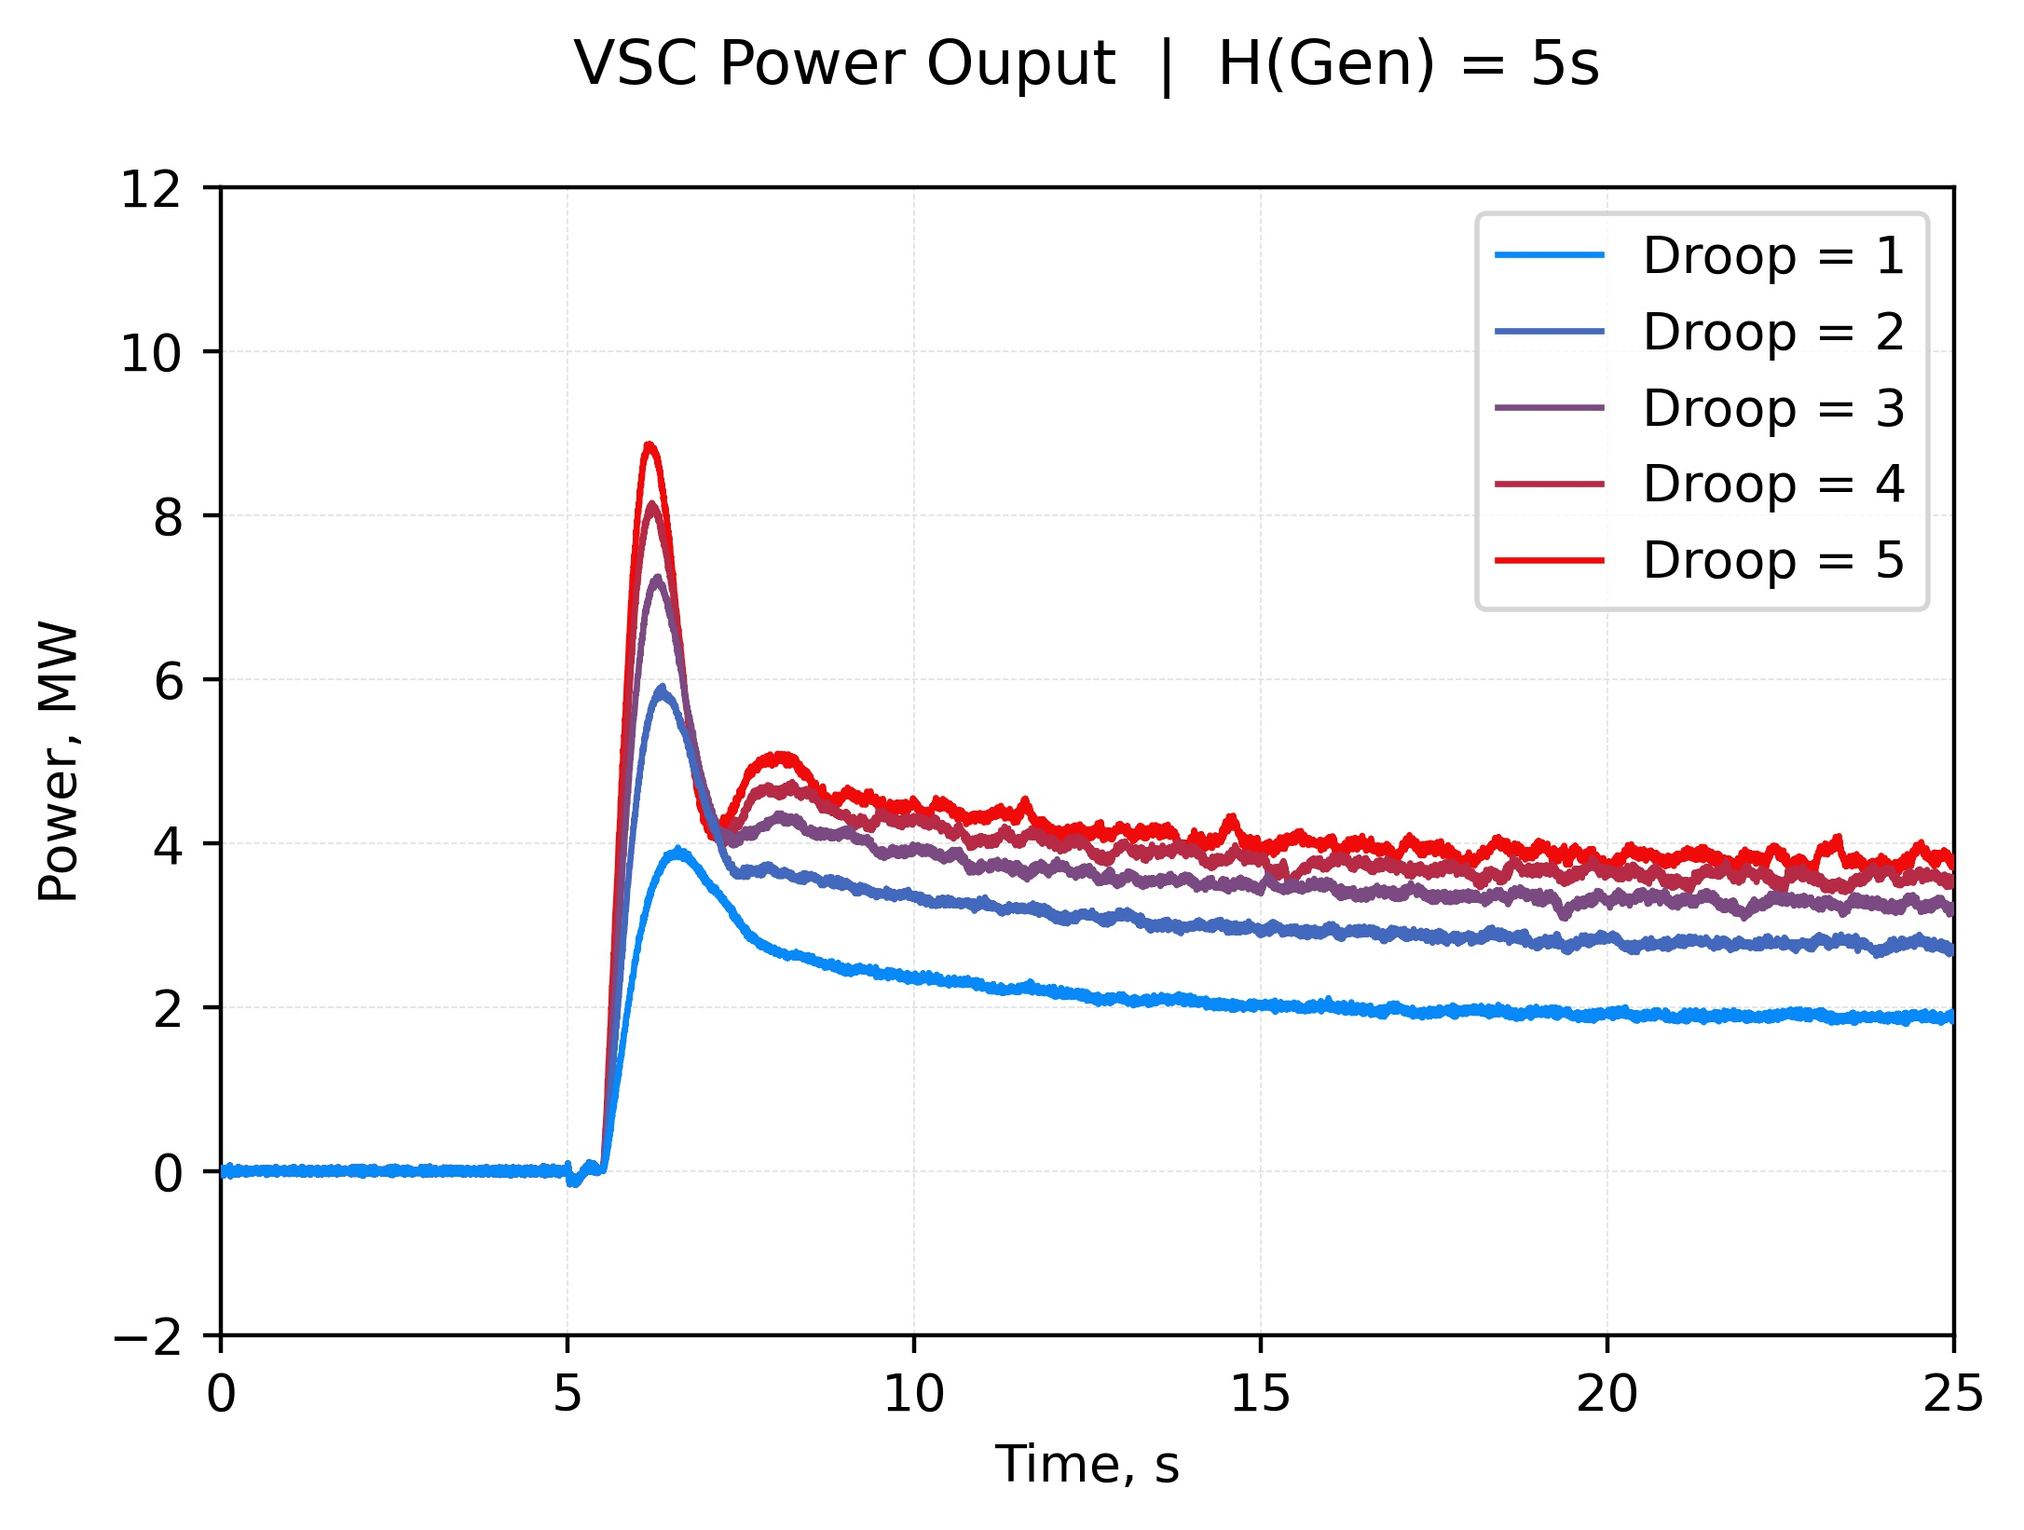
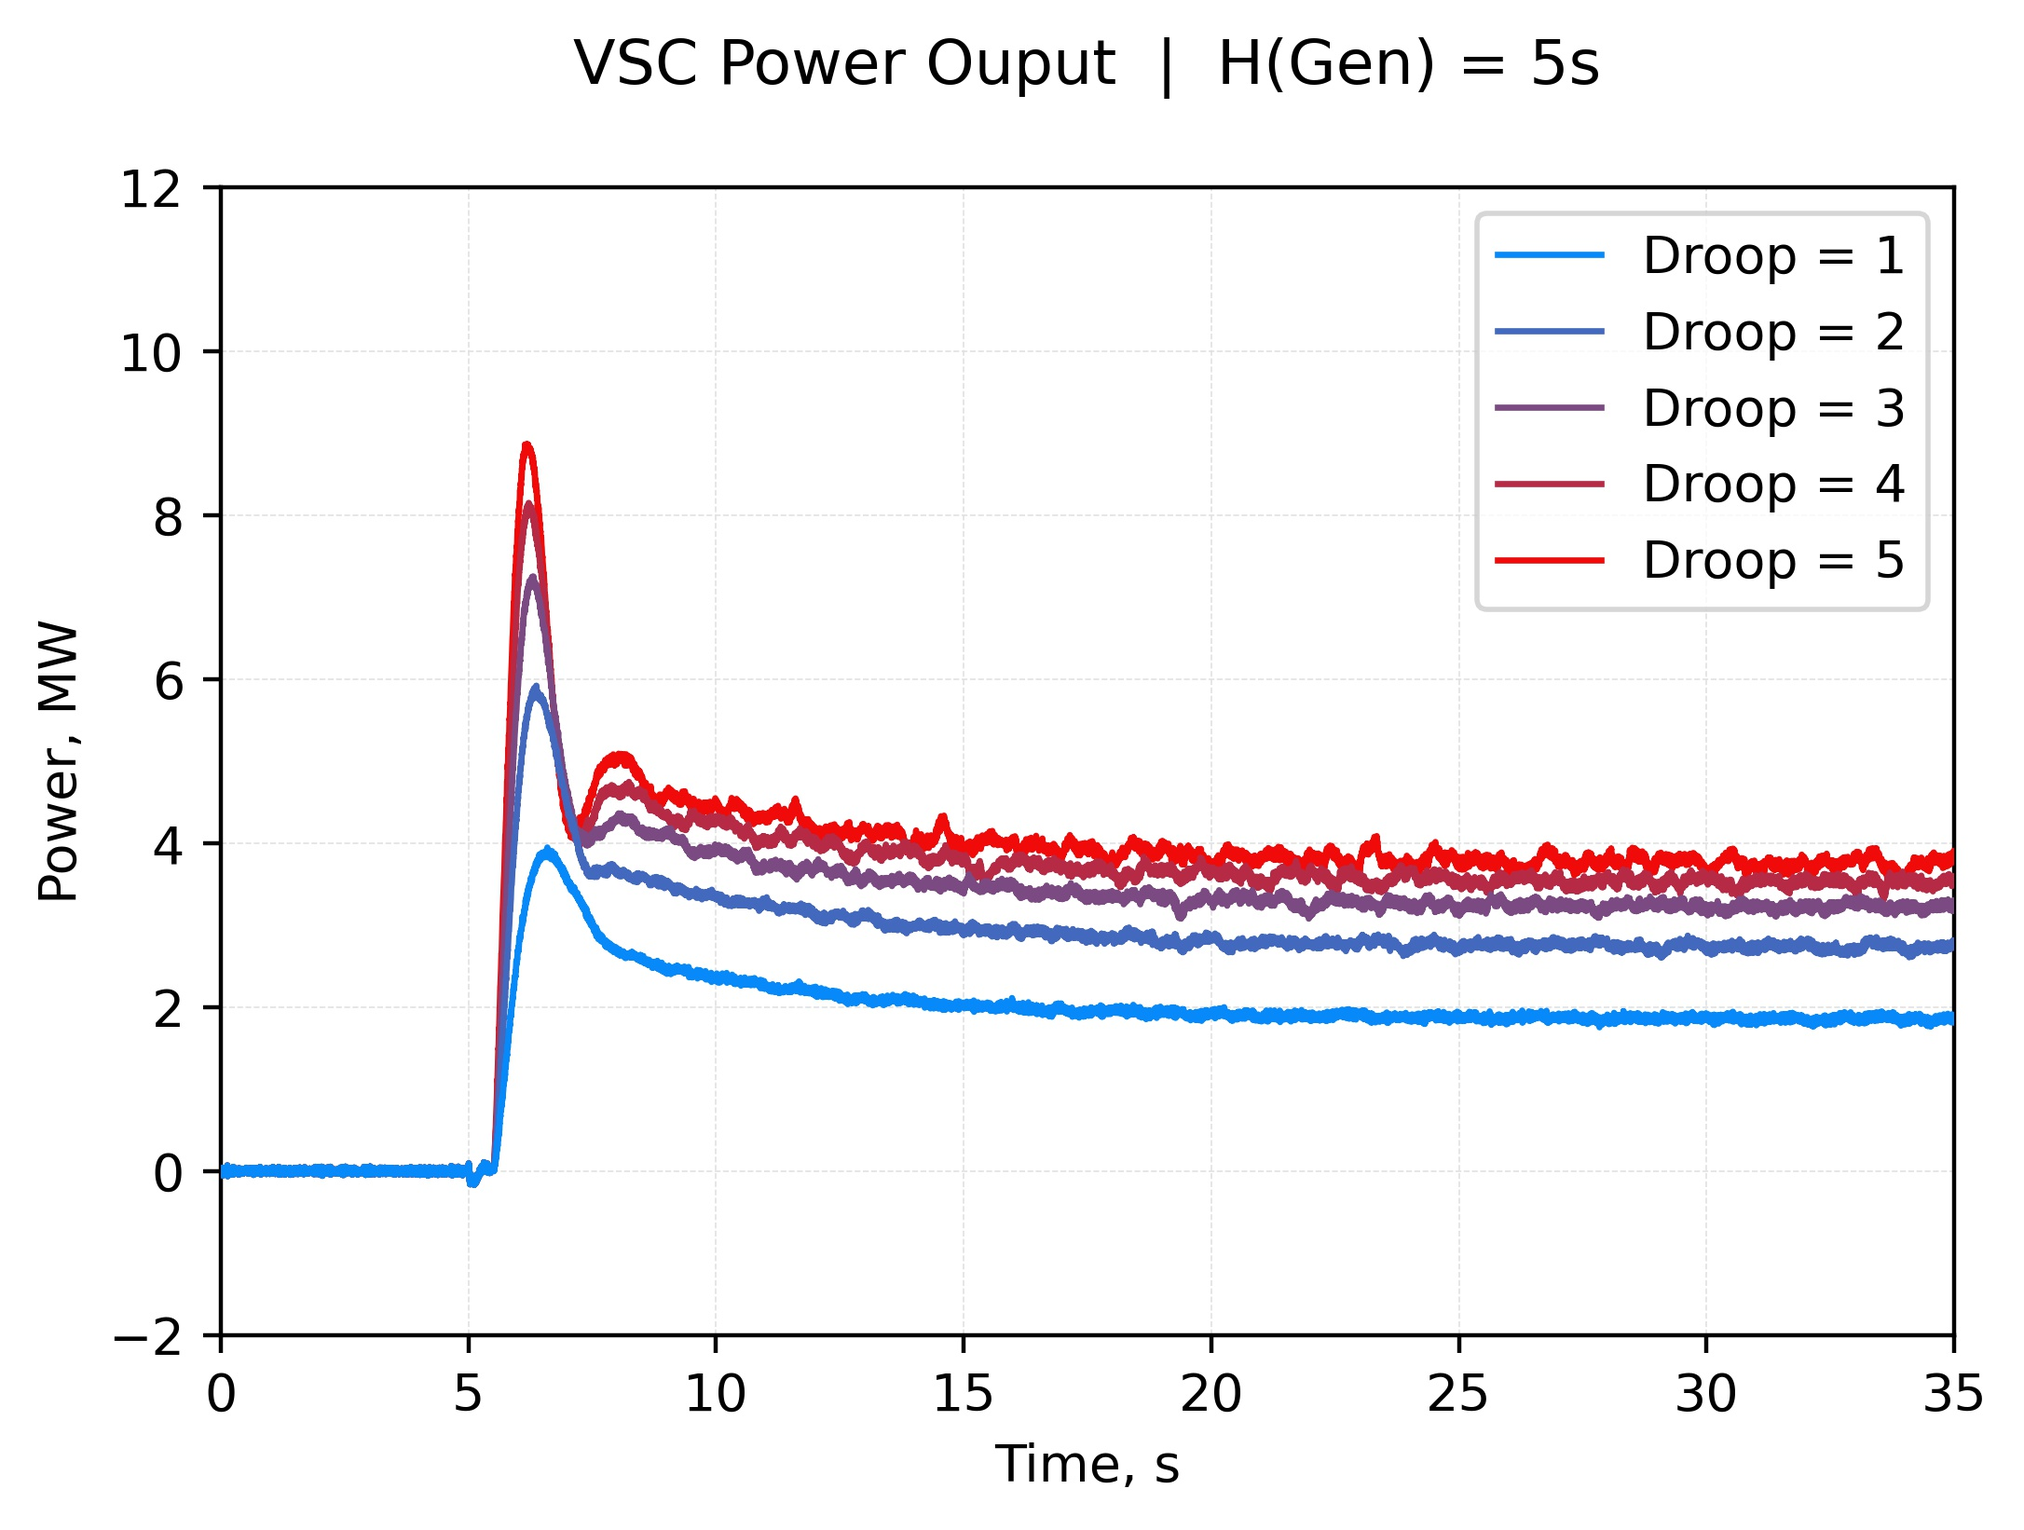
study 5 & 6 analysis done

diff --git a/6-droop-analysis.py b/6-droop-analysis.py
@@ -2,9 +2,9 @@ import functions as f
 import matplotlib.pyplot as plt
 import numpy as np
 
-# Program used to carry out the baseline study analysis
+# Program used to carry out the droop study analysis
 
-scenarios = ['1', '2', '3', '4', '5']
+scenarios = ['5MW', '10MW', '15MW']
 inertia = ['5s', '2.5s']
 
 for h in inertia:
@@ -13,9 +13,11 @@ for h in inertia:
     filesR = [f'rocof {scenario} {h}.mat' for scenario in scenarios]
     filesV = [f'power-vsc {scenario} {h}.mat' for scenario in scenarios]
 
-    dsF = f.importData(filesF, 'data/v2-data/4-droop-sensitivity-study')
-    dsR = f.importData(filesR, 'data/v2-data/4-droop-sensitivity-study')
-    dsV = f.importData(filesV, 'data/v2-data/4-droop-sensitivity-study')
+    dsF = f.importData(filesF, 'data/v2-data/6-droop-study')
+    dsF_base = f.importData(filesF, 'data/v2-data/2-baseline-study')
+    dsR = f.importData(filesR, 'data/v2-data/6-droop-study')
+    dsR_base = f.importData(filesR, 'data/v2-data/2-baseline-study')
+    dsV = f.importData(filesV, 'data/v2-data/6-droop-study')
 
     print(f'Generator Inertia = {h}')
 
@@ -26,12 +28,18 @@ for h in inertia:
         index = range(t0_index)
 
         ds = np.delete(dsF[key]['Value'], index)
+        ds_base = np.delete(dsF_base[key]['Value'], index)
 
         f_min = round(min(ds), 4)
         f_delta = round(f_min - 50, 4)
+        f_min_base = round(min(ds_base), 4)
+        f_delta_base = round(f_min_base - 50, 4)
         f_ss = round(ds[-1], 4)
-        print(f'Case {scenarios[i]}: Minimum frequency = {f_min}, delta = {f_delta}')
-        print(f'Case {scenarios[i]}: Steady-State frequency = {f_ss}')
+        f_ss_base = round(ds_base[-1], 4)
+        print(f'Case {scenarios[i]}: Max delta frequency = {f_delta}')
+        print(f'Case {scenarios[i]}: Baseline Max delta frequency = {f_delta_base}')
+        print(f'Case {scenarios[i]}: Steady state frequency = {f_ss}')
+        print(f'Case {scenarios[i]}: Baseline Steady state frequency = {f_ss_base}')
         i += 1
 
     i = 0
@@ -41,9 +49,12 @@ for h in inertia:
         index = range(t0_index)
 
         ds = np.delete(dsR[key]['Value'], index)
+        ds_base = np.delete(dsR_base[key]['Value'], index)
 
         r_max = round(max(abs(ds)), 4)
+        r_max_base = round(max(abs(ds_base)), 4)
         print(f'Case {scenarios[i]}: Maximum RoCoF = {r_max}')
+        print(f'Case {scenarios[i]}: Baseline Max RoCoF = {r_max_base}')
         i += 1
 
     i = 0
@@ -57,5 +68,5 @@ for h in inertia:
         p_max = round(max(abs(ds)), 4)
         p_ss = round(ds[-1], 4)
         print(f'Case {scenarios[i]}: Maximum VSC Power Output = {p_max}')
-        print(f'Case {scenarios[i]}: Steady-State VSC Power Ouput = {p_ss}')
+        print(f'Case {scenarios[i]}: Steady State VSC Power Output = {p_ss}')
         i += 1

diff --git a/5-inertial-analysis.py b/5-inertial-analysis.py
@@ -2,9 +2,9 @@ import functions as f
 import matplotlib.pyplot as plt
 import numpy as np
 
-# Program used to carry out the baseline study analysis
+# Program used to carry out the inertial study analysis
 
-scenarios = ['1', '2', '3', '4', '5']
+scenarios = ['5MW', '10MW', '15MW']
 inertia = ['5s', '2.5s']
 
 for h in inertia:
@@ -13,9 +13,11 @@ for h in inertia:
     filesR = [f'rocof {scenario} {h}.mat' for scenario in scenarios]
     filesV = [f'power-vsc {scenario} {h}.mat' for scenario in scenarios]
 
-    dsF = f.importData(filesF, 'data/v2-data/4-droop-sensitivity-study')
-    dsR = f.importData(filesR, 'data/v2-data/4-droop-sensitivity-study')
-    dsV = f.importData(filesV, 'data/v2-data/4-droop-sensitivity-study')
+    dsF = f.importData(filesF, 'data/v2-data/5-inertial-study')
+    dsF_base = f.importData(filesF, 'data/v2-data/2-baseline-study')
+    dsR = f.importData(filesR, 'data/v2-data/5-inertial-study')
+    dsR_base = f.importData(filesR, 'data/v2-data/2-baseline-study')
+    dsV = f.importData(filesV, 'data/v2-data/5-inertial-study')
 
     print(f'Generator Inertia = {h}')
 
@@ -26,12 +28,14 @@ for h in inertia:
         index = range(t0_index)
 
         ds = np.delete(dsF[key]['Value'], index)
+        ds_base = np.delete(dsF_base[key]['Value'], index)
 
         f_min = round(min(ds), 4)
         f_delta = round(f_min - 50, 4)
-        f_ss = round(ds[-1], 4)
-        print(f'Case {scenarios[i]}: Minimum frequency = {f_min}, delta = {f_delta}')
-        print(f'Case {scenarios[i]}: Steady-State frequency = {f_ss}')
+        f_min_base = round(min(ds_base), 4)
+        f_delta_base = round(f_min_base - 50, 4)
+        print(f'Case {scenarios[i]}: Max delta frequency = {f_delta}')
+        print(f'Case {scenarios[i]}: Baseline Max delta frequency = {f_delta_base}')
         i += 1
 
     i = 0
@@ -41,9 +45,12 @@ for h in inertia:
         index = range(t0_index)
 
         ds = np.delete(dsR[key]['Value'], index)
+        ds_base = np.delete(dsR_base[key]['Value'], index)
 
         r_max = round(max(abs(ds)), 4)
+        r_max_base = round(max(abs(ds_base)), 4)
         print(f'Case {scenarios[i]}: Maximum RoCoF = {r_max}')
+        print(f'Case {scenarios[i]}: Baseline Max RoCoF = {r_max_base}')
         i += 1
 
     i = 0
@@ -55,7 +62,5 @@ for h in inertia:
         ds = np.delete(dsV[key]['Value'], index)
 
         p_max = round(max(abs(ds)), 4)
-        p_ss = round(ds[-1], 4)
         print(f'Case {scenarios[i]}: Maximum VSC Power Output = {p_max}')
-        print(f'Case {scenarios[i]}: Steady-State VSC Power Ouput = {p_ss}')
         i += 1

diff --git a/5-inertial-power-gen-report.py b/5-inertial-power-gen-report.py
@@ -1,0 +1,29 @@
+import functions as f
+import matplotlib.pyplot as plt
+
+# Program used to plot the inertial study generator power output data
+
+scenarios = ['10MW']
+inertia = ['2.5s']
+colors = ['#0789FA', '#F10A0A']
+
+for h in inertia:
+    for scenario in scenarios:
+        file = f'power-gen {scenario} {h}.mat'
+
+        dsInt = f.importData(file, 'data/v2-data/5-inertial-study', single=True)
+        dsBase = f.importData(file, 'data/v2-data/2-baseline-study', single=True)
+
+        plt.figure(figsize=(6, 4), dpi=400)
+
+        plt.plot(dsInt[file]['Time'], dsInt[file]['Value'], color=colors[0], linewidth=1.4, label=f'With VSC')
+        plt.plot(dsBase[file]['Time'], dsBase[file]['Value'], color=colors[1], linewidth=1.4, label=f'Without VSC')
+
+        plt.grid(linewidth=0.3, linestyle='--', color='#E1E1E1')
+        plt.title(f'Generator Power Output  |  H(Gen) = {h}  |  \u0394P = +{scenario}', pad=20)
+        plt.xlabel('Time, s')
+        plt.ylabel('Power, MW')
+        plt.xlim([0, 35])
+        plt.ylim([48, 65])
+        plt.legend(loc='lower right')
+        plt.savefig(f'plots/v2-plots/5-report-inertial-power-gen-{h}-{scenario}.jpg', dpi=400, bbox_inches='tight')

diff --git a/6-droop-power-gen-report.py b/6-droop-power-gen-report.py
@@ -1,0 +1,29 @@
+import functions as f
+import matplotlib.pyplot as plt
+
+# Program used to plot the droop study generator power output data
+
+scenarios = ['10MW']
+inertia = ['2.5s']
+colors = ['#0789FA', '#F10A0A']
+
+for h in inertia:
+    for scenario in scenarios:
+        file = f'power-gen {scenario} {h}.mat'
+
+        dsInt = f.importData(file, 'data/v2-data/6-droop-study', single=True)
+        dsBase = f.importData(file, 'data/v2-data/2-baseline-study', single=True)
+
+        plt.figure(figsize=(6, 4), dpi=400)
+
+        plt.plot(dsInt[file]['Time'], dsInt[file]['Value'], color=colors[0], linewidth=1.4, label=f'With VSC')
+        plt.plot(dsBase[file]['Time'], dsBase[file]['Value'], color=colors[1], linewidth=1.4, label=f'Without VSC')
+
+        plt.grid(linewidth=0.3, linestyle='--', color='#E1E1E1')
+        plt.title(f'Generator Power Output  |  H(Gen) = {h}  |  \u0394P = +{scenario}', pad=20)
+        plt.xlabel('Time, s')
+        plt.ylabel('Power, MW')
+        plt.xlim([0, 35])
+        plt.ylim([48, 65])
+        plt.legend(loc='lower right')
+        plt.savefig(f'plots/v2-plots/6-report-droop-power-gen-{h}-{scenario}.jpg', dpi=400, bbox_inches='tight')

diff --git a/5-inertial-frequency-report.py b/5-inertial-frequency-report.py
@@ -1,0 +1,29 @@
+import functions as f
+import matplotlib.pyplot as plt
+
+# Program used to plot the inertial study frequency data
+
+scenarios = ['10MW']
+inertia = ['2.5s']
+colors = ['#0789FA', '#F10A0A']
+
+for h in inertia:
+    for scenario in scenarios:
+        file = f'frequency {scenario} {h}.mat'
+
+        dsInt = f.importData(file, 'data/v2-data/5-inertial-study', single=True)
+        dsBase = f.importData(file, 'data/v2-data/2-baseline-study', single=True)
+
+        plt.figure(figsize=(6, 4), dpi=400)
+
+        plt.plot(dsInt[file]['Time'], dsInt[file]['Value'], color=colors[0], linewidth=1.4, label=f'With VSC')
+        plt.plot(dsBase[file]['Time'], dsBase[file]['Value'], color=colors[1], linewidth=1.4, label=f'Without VSC')
+
+        plt.grid(linewidth=0.3, linestyle='--', color='#E1E1E1')
+        plt.title(f'Grid Frequency  |  H(Gen) = {h}  |  \u0394P = +{scenario}', pad=20)
+        plt.xlabel('Time, s')
+        plt.ylabel('Frequency, Hz')
+        plt.xlim([0, 35])
+        plt.ylim([49.5, 50.2])
+        plt.legend(loc='upper right')
+        plt.savefig(f'plots/v2-plots/5-report-inertial-frequency-{h}-{scenario}.jpg', dpi=400, bbox_inches='tight')

diff --git a/6-droop-frequency-report.py b/6-droop-frequency-report.py
@@ -1,0 +1,29 @@
+import functions as f
+import matplotlib.pyplot as plt
+
+# Program used to plot the droop study frequency data
+
+scenarios = ['10MW']
+inertia = ['2.5s']
+colors = ['#0789FA', '#F10A0A']
+
+for h in inertia:
+    for scenario in scenarios:
+        file = f'frequency {scenario} {h}.mat'
+
+        dsInt = f.importData(file, 'data/v2-data/6-droop-study', single=True)
+        dsBase = f.importData(file, 'data/v2-data/2-baseline-study', single=True)
+
+        plt.figure(figsize=(6, 4), dpi=400)
+
+        plt.plot(dsInt[file]['Time'], dsInt[file]['Value'], color=colors[0], linewidth=1.4, label=f'With VSC')
+        plt.plot(dsBase[file]['Time'], dsBase[file]['Value'], color=colors[1], linewidth=1.4, label=f'Without VSC')
+
+        plt.grid(linewidth=0.3, linestyle='--', color='#E1E1E1')
+        plt.title(f'Grid Frequency  |  H(Gen) = {h}  |  \u0394P = +{scenario}', pad=20)
+        plt.xlabel('Time, s')
+        plt.ylabel('Frequency, Hz')
+        plt.xlim([0, 35])
+        plt.ylim([49.5, 50.1])
+        plt.legend(loc='upper right')
+        plt.savefig(f'plots/v2-plots/6-report-droop-frequency-{h}-{scenario}.jpg', dpi=400, bbox_inches='tight')

diff --git a/5-inertial-rocof-report.py b/5-inertial-rocof-report.py
@@ -1,0 +1,29 @@
+import functions as f
+import matplotlib.pyplot as plt
+
+# Program used to plot the inertial study rocof data
+
+scenarios = ['10MW']
+inertia = ['2.5s']
+colors = ['#0789FA', '#F10A0A']
+
+for h in inertia:
+    for scenario in scenarios:
+        file = f'rocof {scenario} {h}.mat'
+
+        dsInt = f.importData(file, 'data/v2-data/5-inertial-study', single=True)
+        dsBase = f.importData(file, 'data/v2-data/2-baseline-study', single=True)
+
+        plt.figure(figsize=(6, 4), dpi=400)
+
+        plt.plot(dsInt[file]['Time'], dsInt[file]['Value'], color=colors[0], linewidth=1.4, label=f'With VSC')
+        plt.plot(dsBase[file]['Time'], dsBase[file]['Value'], color=colors[1], linewidth=1.4, label=f'Without VSC')
+
+        plt.grid(linewidth=0.3, linestyle='--', color='#E1E1E1')
+        plt.title(f'Grid RoCoF  |  H(Gen) = {h}  |  \u0394P = +{scenario}', pad=20)
+        plt.xlabel('Time, s')
+        plt.ylabel('RoCoF, Hz/s')
+        plt.xlim([0, 35])
+        plt.ylim([-0.35, 0.2])
+        plt.legend(loc='upper right')
+        plt.savefig(f'plots/v2-plots/5-report-inertial-rocof-{h}-{scenario}.jpg', dpi=400, bbox_inches='tight')

diff --git a/6-droop-rocof-report.py b/6-droop-rocof-report.py
@@ -1,0 +1,29 @@
+import functions as f
+import matplotlib.pyplot as plt
+
+# Program used to plot the droop study rocof data
+
+scenarios = ['10MW']
+inertia = ['2.5s']
+colors = ['#0789FA', '#F10A0A']
+
+for h in inertia:
+    for scenario in scenarios:
+        file = f'rocof {scenario} {h}.mat'
+
+        dsInt = f.importData(file, 'data/v2-data/6-droop-study', single=True)
+        dsBase = f.importData(file, 'data/v2-data/2-baseline-study', single=True)
+
+        plt.figure(figsize=(6, 4), dpi=400)
+
+        plt.plot(dsInt[file]['Time'], dsInt[file]['Value'], color=colors[0], linewidth=1.4, label=f'With VSC')
+        plt.plot(dsBase[file]['Time'], dsBase[file]['Value'], color=colors[1], linewidth=1.4, label=f'Without VSC')
+
+        plt.grid(linewidth=0.3, linestyle='--', color='#E1E1E1')
+        plt.title(f'Grid RoCoF  |  H(Gen) = {h}  |  \u0394P = +{scenario}', pad=20)
+        plt.xlabel('Time, s')
+        plt.ylabel('RoCoF, Hz/s')
+        plt.xlim([0, 35])
+        plt.ylim([-0.35, 0.2])
+        plt.legend(loc='upper right')
+        plt.savefig(f'plots/v2-plots/6-report-droop-rocof-{h}-{scenario}.jpg', dpi=400, bbox_inches='tight')

diff --git a/5-inertial-power-vsc-report.py b/5-inertial-power-vsc-report.py
@@ -1,0 +1,28 @@
+import functions as f
+import matplotlib.pyplot as plt
+
+# Program used to plot the inertial study VSC power output data
+
+scenarios = ['10MW']
+inertia = ['2.5s']
+colors = ['#0789FA', '#7C4A82', '#F10A0A']
+
+for h in inertia:
+    files = [f'power-vsc {scenario} {h}.mat' for scenario in scenarios]
+
+    ds = f.importData(files, 'data/v2-data/5-inertial-study')
+
+    plt.figure(figsize=(6, 4), dpi=400)
+
+    i = 0
+    for key in ds.keys():
+        plt.plot(ds[key]['Time'], ds[key]['Value'], color=colors[i], linewidth=1.4, label=f'\u0394P = +{scenarios[i]}')
+        i += 1
+
+    plt.grid(linewidth=0.3, linestyle='--', color='#E1E1E1')
+    plt.title(f'VSC Power Output  |  H(Gen) = {h}  |  \u0394P = +10MW', pad=20)
+    plt.xlabel('Time, s')
+    plt.ylabel('Power, MW')
+    plt.xlim([0, 35])
+    plt.ylim([-2, 10])
+    plt.savefig(f'plots/v2-plots/5-report-inertial-power-vsc-{h}.jpg', dpi=400, bbox_inches='tight')

diff --git a/6-droop-power-vsc-report.py b/6-droop-power-vsc-report.py
@@ -1,0 +1,28 @@
+import functions as f
+import matplotlib.pyplot as plt
+
+# Program used to plot the droop study VSC power output data
+
+scenarios = ['10MW']
+inertia = ['2.5s']
+colors = ['#0789FA', '#7C4A82', '#F10A0A']
+
+for h in inertia:
+    files = [f'power-vsc {scenario} {h}.mat' for scenario in scenarios]
+
+    ds = f.importData(files, 'data/v2-data/6-droop-study')
+
+    plt.figure(figsize=(6, 4), dpi=400)
+
+    i = 0
+    for key in ds.keys():
+        plt.plot(ds[key]['Time'], ds[key]['Value'], color=colors[i], linewidth=1.4)
+        i += 1
+
+    plt.grid(linewidth=0.3, linestyle='--', color='#E1E1E1')
+    plt.title(f'VSC Power Output  |  H(Gen) = {h}  |  \u0394P = +10MW', pad=20)
+    plt.xlabel('Time, s')
+    plt.ylabel('Power, MW')
+    plt.xlim([0, 35])
+    plt.ylim([-2, 12])
+    plt.savefig(f'plots/v2-plots/6-report-droop-power-vsc-{h}.jpg', dpi=400, bbox_inches='tight')

diff --git a/3-inertial-sensitivity-frequency.py b/3-inertial-sensitivity-frequency.py
@@ -23,7 +23,7 @@ for h in inertia:
     plt.title(f'Grid Frequency  |  H(Gen) = {h}', pad=20)
     plt.xlabel('Time, s')
     plt.ylabel('Frequency, Hz')
-    plt.xlim([0, 25])
+    plt.xlim([0, 35])
     plt.ylim([49.7, 50.1])
     plt.legend(loc='upper right')
     plt.savefig(f'plots/v2-plots/3-inertial-sensitivity-frequency-{h}.jpg', dpi=400, bbox_inches='tight')

diff --git a/3-inertial-sensitivity-power-gen.py b/3-inertial-sensitivity-power-gen.py
@@ -25,7 +25,7 @@ for h in inertia:
     plt.title(f'Generator Power Ouput  |  H(Gen) = {h}', pad=20)
     plt.xlabel('Time, s')
     plt.ylabel('Power, MW')
-    plt.xlim([0, 25])
+    plt.xlim([0, 35])
     plt.ylim([48, 62])
     plt.legend(loc='lower right')
     plt.savefig(f'plots/v2-plots/3-inertial-sensitivity-power-gen-{h}.jpg', dpi=400, bbox_inches='tight')
